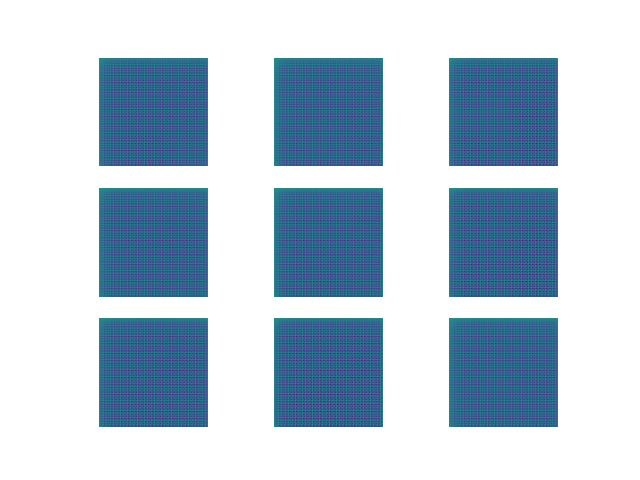
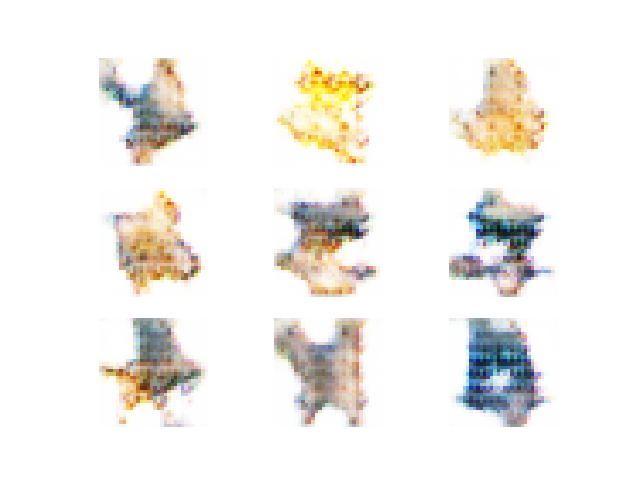
Pokemon

diff --git a/project.py b/project.py
@@ -7,73 +7,65 @@ from numpy import zeros, ones
 from matplotlib import pyplot
 
 from tensorflow.keras import Sequential
-from tensorflow.keras.layers import Dense, Input, LeakyReLU, Reshape, Conv2DTranspose, Conv2D, MaxPooling2D, Flatten
+from tensorflow.keras.optimizers import Adam
+from tensorflow.keras.layers import Dropout, Dense, LeakyReLU, Reshape, Conv2DTranspose, Conv2D, Flatten
 
 
 def build_discriminator(in_shape):
-    model = Sequential()
-    model.add(Input(shape=in_shape))
-
-    model.add(Conv2D(128, (3,3), strides=(2,2), padding='same')) #128x128
-    model.add(LeakyReLU())
-    model.add(MaxPooling2D(pool_size=(2, 2))) #64x64
-
-    model.add(Conv2D(64, (3,3), strides=(2,2), padding='same')) #32x32
-    model.add(LeakyReLU())
-    model.add(MaxPooling2D(pool_size=(2, 2))) #16x16
-
-    model.add(Conv2D(32, (3,3), strides=(2,2), padding='same')) #8x8
-    model.add(LeakyReLU())
-    model.add(MaxPooling2D(pool_size=(2, 2))) #4x4
-
-    model.add(Flatten())
-    model.add(Dense(16))
-    model.add(LeakyReLU())
-
-    model.add(Dense(1, activation="sigmoid"))
-
-    model.compile(loss='binary_crossentropy', optimizer='adam', metrics=['accuracy'])
-
-    return model
+	model = Sequential()
+	# normal
+	model.add(Conv2D(64, (3,3), padding='same', input_shape=in_shape))
+	model.add(LeakyReLU(alpha=0.2))
+	# downsample
+	model.add(Conv2D(128, (3,3), strides=(2,2), padding='same'))
+	model.add(LeakyReLU(alpha=0.2))
+	# downsample
+	model.add(Conv2D(128, (3,3), strides=(2,2), padding='same'))
+	model.add(LeakyReLU(alpha=0.2))
+	# downsample
+	model.add(Conv2D(256, (3,3), strides=(2,2), padding='same'))
+	model.add(LeakyReLU(alpha=0.2))
+	# classifier
+	model.add(Flatten())
+	model.add(Dropout(0.4))
+	model.add(Dense(1, activation='sigmoid'))
+	# compile model
+	opt = Adam(lr=0.0002, beta_1=0.5)
+	model.compile(loss='binary_crossentropy', optimizer=opt, metrics=['accuracy'])
+	return model
 
 
-def build_generator(latency_shape = 100):
-    model = Sequential()
-
-    n_units = 8*8*256
-
-    model.add(Input(shape=(latency_shape,)))
-    model.add(Dense(units=n_units))
-    model.add(LeakyReLU())
-
-    model.add(Reshape((8, 8, 256)))
-
-    model.add(Conv2DTranspose(256, (5,5), strides=(2,2), padding='same')) #16x16
-    model.add(LeakyReLU())
-
-    model.add(Conv2DTranspose(128, (5,5), strides=(2,2), padding='same')) #32x32
-    model.add(LeakyReLU())
-
-    model.add(Conv2DTranspose(64, (5,5), strides=(2,2), padding='same')) #64x64
-    model.add(LeakyReLU())
-
-    model.add(Conv2DTranspose(32, (5,5), strides=(2,2), padding='same')) #128x128
-    model.add(LeakyReLU())
-
-    model.add(Conv2DTranspose(3, (5,5), strides=(2,2), padding='same', activation='tanh')) #256x256
-    
-    return model
+def build_generator(latent_dim = 100):
+	model = Sequential()
+	# foundation for 4x4 image
+	n_nodes = 256 * 4 * 4
+	model.add(Dense(n_nodes, input_dim=latent_dim))
+	model.add(LeakyReLU(alpha=0.2))
+	model.add(Reshape((4, 4, 256)))
+	# upsample to 8x8
+	model.add(Conv2DTranspose(128, (4,4), strides=(2,2), padding='same'))
+	model.add(LeakyReLU(alpha=0.2))
+	# upsample to 16x16
+	model.add(Conv2DTranspose(128, (4,4), strides=(2,2), padding='same'))
+	model.add(LeakyReLU(alpha=0.2))
+	# upsample to 32x32
+	model.add(Conv2DTranspose(128, (4,4), strides=(2,2), padding='same'))
+	model.add(LeakyReLU(alpha=0.2))
+	# output layer
+	model.add(Conv2D(3, (3,3), activation='tanh', padding='same'))
+	return model
 
 
 def build_gan(g_model, d_model):
-	d_model.trainable = False
+    d_model.trainable = False
 
-	model = Sequential()
-	model.add(g_model)
-	model.add(d_model)
+    model = Sequential()
+    model.add(g_model)
+    model.add(d_model)
 
-	model.compile(loss='binary_crossentropy', optimizer='adam')
-	return model
+    opt = Adam(learning_rate=0.0002, beta_1=0.5)
+    model.compile(loss='binary_crossentropy', optimizer=opt)
+    return model
 
 
 def load_real_data():
@@ -83,14 +75,14 @@ def load_real_data():
     return df
 
 
-def generate_real_samples(df, n_samples):
-    batch = df.sample(n=n_samples)
+def generate_real_samples(df, iter, n_samples):
+    batch = df[iter*n_samples:iter*n_samples+n_samples]
     im_array = []
 
     for _, row in batch.iterrows():
         path = row[0]
         im = Image.open('data/pokemon/'+path)
-        im = im.resize((256, 256))
+        im = im.resize((32, 32))
         im_array.append(np.array(im))
 
     im_array = np.array(np.float32(im_array))
@@ -125,31 +117,31 @@ def summarize_performance(examples, n):
 		# turn off axis
 		pyplot.axis('off')
 		# plot raw pixel data
-		pyplot.imshow(examples[i, :, :, 0])
+		pyplot.imshow(examples[i])
 	pyplot.savefig('output.png')
 
 
-def train(g_model, d_model, gan_model, dataset, latent_dim, n_epochs=6, n_batch=128):
+def train(g_model, d_model, gan_model, dataset, latent_dim, n_epochs=200, n_batch=128):
     batch_per_epoch = int(dataset[0].shape[0] / n_batch)
     half_batch = int(n_batch / 2)
 
     # manually enumerate epochs
     for i in range(n_epochs):
         for j in range(int(batch_per_epoch)):
-            X_real, y_real = generate_real_samples(dataset, half_batch)
+            X_real, y_real = generate_real_samples(dataset, j, half_batch)
             X_fake, y_fake = generate_fake_samples(g_model, latent_dim, half_batch)
 
-            # print(X_real.shape, X_fake.shape)
             d_loss_real = d_model.train_on_batch(X_real, y_real)
             d_loss_fake = d_model.train_on_batch(X_fake, y_fake)
 
             z_input = generate_latent_points(latent_dim, n_batch)
-            y_gan = zeros((n_batch, 1))
+            y_gan = ones((n_batch, 1))
 
             g_loss = gan_model.train_on_batch(z_input, y_gan)
+
             print('>%d, %d/%d, d1=%.3f, d2=%.3f g=%.3f' % (i+1, j+1, batch_per_epoch, d_loss_real[0], d_loss_fake[0], g_loss))
 
-        if (i+1) % (2) == 0:
+        if (i+1) % (1) == 0:
             latent_points = generate_latent_points(100, 9)
             X  = g_model.predict(latent_points)
             X = (X + 1) / 2.0
@@ -160,7 +152,9 @@ latent_dim = 100
 df = load_real_data()
 
 g_model = build_generator()
-d_model = build_discriminator((256,256,3))
+print(g_model.summary())
+d_model = build_discriminator((32,32,3))
+print(d_model.summary())
 gan_model = build_gan(g_model, d_model)
 
 train(g_model, d_model, gan_model, df, latent_dim)
